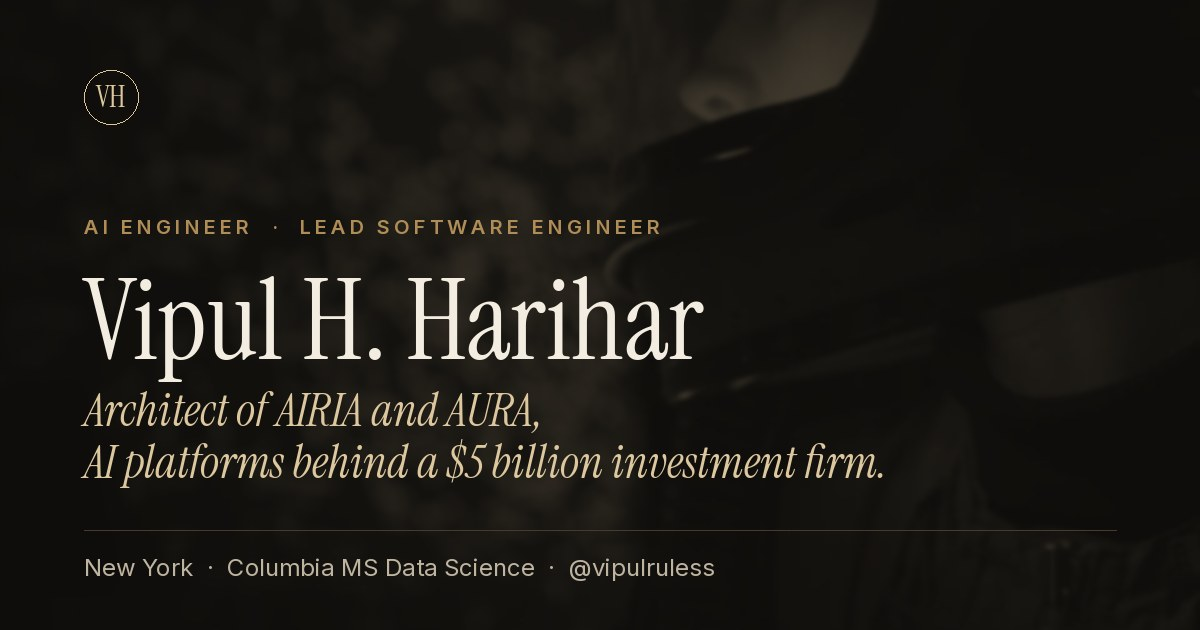
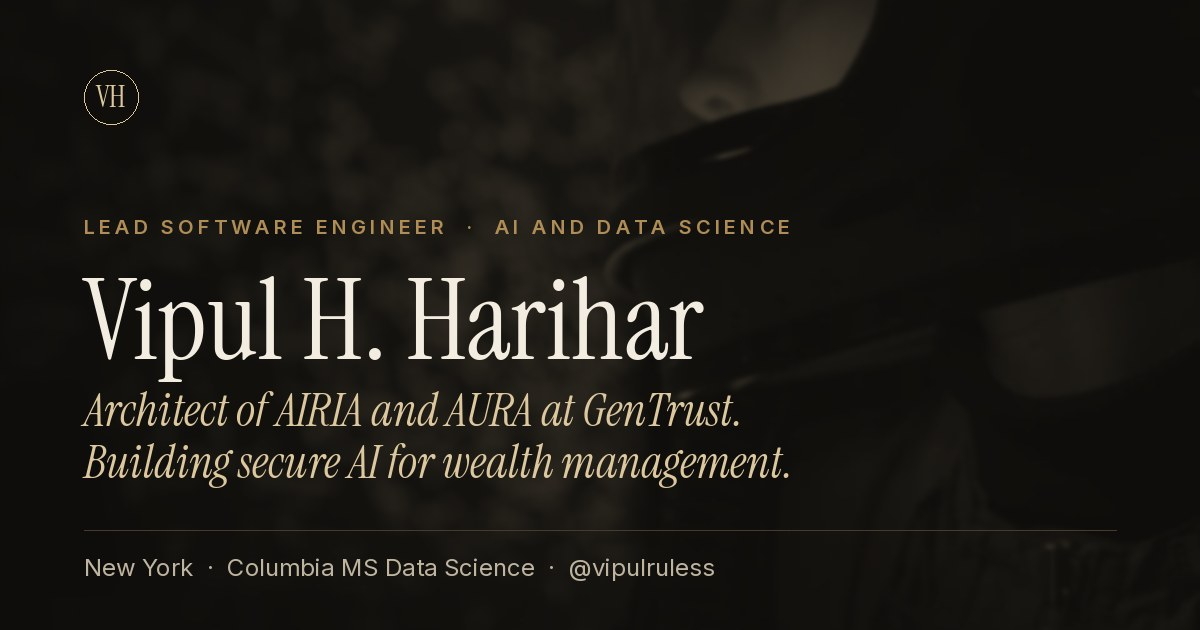
Tone down copy to match how Vipul describes himself; align meta and schema with his Google summary

Changed region(s): [[0.0617, 0.6333, 0.74, 0.7841], [0.0617, 0.3317, 0.6475, 0.3921]]

diff --git a/index.html b/index.html
@@ -3,8 +3,8 @@
 <head>
     <meta charset="UTF-8">
     <meta name="viewport" content="width=device-width, initial-scale=1.0">
-    <title>Vipul H. Harihar | AI Engineer and Lead Software Engineer, New York</title>
-    <meta name="description" content="Vipul H. Harihar, also known by his stage name Vipul Rules (@vipulruless), is a New York computer and AI technologist and Lead Software Engineer at GenTrust, where he architected AIRIA and AURA, the AI platforms behind a $5 billion investment firm, and the brains behind the platform core of VIRA, the GenTrust and Verapath AI-native wealth system. Columbia MS Data Science.">
+    <title>Vipul H. Harihar (Vipul Rules) | Lead Software Engineer, AI and Data Science, New York</title>
+    <meta name="description" content="Vipul H. Harihar (Vipul Rules) is a Lead Software Engineer and technology scientist specializing in artificial intelligence and data science. At GenTrust in New York he architected AIRIA, an investment operating environment, and AURA, a secure enterprise AI agent platform. MS Data Science, Columbia University.">
     <meta name="author" content="Vipul H. Harihar">
     <meta name="robots" content="index, follow, max-image-preview:large, max-snippet:-1, max-video-preview:-1">
     <link rel="canonical" href="https://virslaan.github.io/VipulPorfolioWebsite/">
@@ -18,18 +18,18 @@
     <meta property="og:site_name" content="Vipul H. Harihar">
     <meta property="og:type" content="profile">
     <meta property="og:url" content="https://virslaan.github.io/VipulPorfolioWebsite/">
-    <meta property="og:title" content="Vipul H. Harihar | AI Engineer and Lead Software Engineer">
-    <meta property="og:description" content="The brains behind AIRIA, AURA and the platform core of VIRA. AI-powered operating platforms behind a $5 billion investment firm. Columbia MS Data Science. New York.">
+    <meta property="og:title" content="Vipul H. Harihar | Lead Software Engineer, AI and Data Science">
+    <meta property="og:description" content="Lead Software Engineer at GenTrust in New York, specializing in AI and data science. Architect of AIRIA and AURA. MS Data Science, Columbia University.">
     <meta property="og:image" content="https://virslaan.github.io/VipulPorfolioWebsite/assets/img/og-card.jpg">
     <meta property="og:image:width" content="1200">
     <meta property="og:image:height" content="630">
-    <meta property="og:image:alt" content="Vipul H. Harihar, AI Engineer and Lead Software Engineer">
+    <meta property="og:image:alt" content="Vipul H. Harihar, Lead Software Engineer, AI and Data Science">
     <meta property="profile:first_name" content="Vipul">
     <meta property="profile:last_name" content="Harihar">
     <meta property="profile:username" content="vipulruless">
     <meta name="twitter:card" content="summary_large_image">
-    <meta name="twitter:title" content="Vipul H. Harihar | AI Engineer and Lead Software Engineer">
-    <meta name="twitter:description" content="Architect of AIRIA and AURA, the AI-powered operating platforms behind a $5 billion investment firm.">
+    <meta name="twitter:title" content="Vipul H. Harihar | Lead Software Engineer, AI and Data Science">
+    <meta name="twitter:description" content="Lead Software Engineer at GenTrust in New York, specializing in AI and data science. Architect of AIRIA and AURA. MS Data Science, Columbia University.">
     <meta name="twitter:image" content="https://virslaan.github.io/VipulPorfolioWebsite/assets/img/og-card.jpg">
 
     <link rel="preconnect" href="https://fonts.googleapis.com">
@@ -56,7 +56,7 @@
       "url": "https://virslaan.github.io/VipulPorfolioWebsite/",
       "image": "https://virslaan.github.io/VipulPorfolioWebsite/assets/img/og-card.jpg",
       "email": "mailto:vhh2105@columbia.edu",
-      "description": "Vipul H. Harihar, stage name Vipul Rules, is a computer AI and technology scientist and Lead Software Engineer at GenTrust in New York. Architect of AIRIA and AURA, the AI-powered operating platforms used across a registered investment adviser managing more than $5 billion, and the platform core of VIRA, the AI-native wealth system launched by GenTrust and Verapath.",
+      "description": "Vipul H. Harihar, also known as Vipul Rules, is a Lead Software Engineer and technology scientist specializing in artificial intelligence and data science. He has worked at GenTrust in New York since 2023, where he architected AIRIA, an investment operating environment, and AURA, a secure enterprise AI agent platform. He holds an MS in Data Science from Columbia University and a BTech in Computer Science from DIT University.",
       "jobTitle": "Lead Software Engineer",
       "hasOccupation": {
         "@type": "Occupation",
@@ -192,10 +192,10 @@
     <div class="hero-copy" id="heroCopy">
         <p class="cover-kicker">GenTrust · AIRIA · AURA · VIRA</p>
         <h1 class="hero-name" data-split="Vipul H. Harihar">Vipul H. Harihar</h1>
-        <p class="hero-role">Computer AI and Technology Scientist</p>
+        <p class="hero-role">Lead Software Engineer · AI and Data Science</p>
         <p class="hero-line">
-            The brains behind AIRIA, AURA and the platform core of VIRA,
-            the AI-native wealth system from GenTrust and Verapath.
+            Lead Software Engineer at GenTrust in New York. I architected AIRIA and AURA,
+            and I am proud to be part of the team behind VIRA.
         </p>
         <div class="hero-links">
             <a href="#work" class="link-chevron">Enter the work</a>
@@ -232,7 +232,7 @@
 </section>
 
 <!-- ─────────── DRIVE FILM ─────────── -->
-<section class="reveal-film reveal-film--drive" id="driveFilm" aria-label="The brains behind the product" data-cursor-theme="cover">
+<section class="reveal-film reveal-film--drive" id="driveFilm" aria-label="Building what runs underneath" data-cursor-theme="cover">
     <div class="reveal-film-stage">
         <video class="reveal-film-video" poster="assets/img/drive-poster.jpg"
                muted playsinline preload="auto" aria-hidden="true" data-scrub>
@@ -241,11 +241,11 @@
         <div class="reveal-film-scrim"></div>
         <div class="reveal-film-copy">
             <blockquote data-scrub-copy="0">
-                <p>Every machine that wins has someone behind it the crowd never sees.</p>
+                <p>Every winning machine is built by a team the crowd never sees.</p>
             </blockquote>
             <blockquote data-scrub-copy="1">
-                <p>The brains behind the product.</p>
-                <cite>Vipul H. Harihar · AIRIA · AURA · VIRA</cite>
+                <p>Quietly building what runs underneath.</p>
+                <cite>Vipul H. Harihar · Lead Software Engineer, GenTrust</cite>
             </blockquote>
         </div>
     </div>
@@ -262,9 +262,9 @@
             </header>
             <div class="vira-body reveal">
                 <p class="vira-lede">
-                    I am the brains behind VIRA's platform core. As Lead Software Engineer at GenTrust,
-                    I designed and built AIRIA and AURA, the operating and AI layers GenTrust runs on,
-                    and they are the foundation VIRA brings to market.
+                    I am proud to be part of the team building VIRA. As Lead Software Engineer at
+                    GenTrust, I architected AIRIA and AURA, the operating and AI layers the firm uses
+                    every day, and part of the technology VIRA builds on.
                 </p>
                 <p>
                     VIRA launched on September 15, 2026 as a joint venture between GenTrust and Verapath.
@@ -275,7 +275,7 @@
                 <ul class="vira-points">
                     <li><b>One system of record</b><span>CRM, planning, portfolio, tax and reporting in one platform</span></li>
                     <li><b>AI-native</b><span>Intelligence runs through every workflow, not beside it</span></li>
-                    <li><b>Built inside an advisory firm</b><span>Battle-tested at GenTrust before launch</span></li>
+                    <li><b>Built inside an advisory firm</b><span>Shaped by daily use at GenTrust</span></li>
                 </ul>
                 <div class="vira-links">
                     <a class="link-chevron" href="https://verapath.com/news-and-resources/verapath-and-gentrust-launch-vira" target="_blank" rel="noopener noreferrer">Read the launch announcement</a>
@@ -291,12 +291,12 @@
     <div class="wrap">
         <div class="figures-grid">
             <div class="figure reveal">
-                <div class="figure-value"><span class="count" data-target="5" data-prefix="$" data-suffix="B">$0B</span></div>
-                <div class="figure-label">Assets under management supported</div>
+                <div class="figure-value"><span class="count" data-target="4">0</span></div>
+                <div class="figure-label">Months from first build to launch</div>
             </div>
             <div class="figure reveal">
-                <div class="figure-value"><span class="count" data-target="2" data-prefix="$" data-suffix="M">$0M</span></div>
-                <div class="figure-label">Projected operating savings</div>
+                <div class="figure-value"><span class="count" data-target="250" data-prefix="~">~0</span></div>
+                <div class="figure-label">Clients served by the platform</div>
             </div>
             <div class="figure reveal">
                 <div class="figure-value"><span class="count" data-target="25" data-suffix="+">0</span></div>
@@ -312,9 +312,9 @@
             <span class="press-label">Recognition</span>
             <a href="https://datascience.columbia.edu/news/2025/a-data-science-alum-was-hired-to-fix-code-he-built-an-operating-system-instead/" target="_blank" rel="noopener noreferrer">Columbia Data Science Institute</a>
             <span class="press-dot" aria-hidden="true"></span>
-            <span>Forbes 30 Under 30, 2026 nominee</span>
-            <span class="press-dot" aria-hidden="true"></span>
             <span>Columbia Gold Graduate Marshal</span>
+            <span class="press-dot" aria-hidden="true"></span>
+            <span>DIT University Gold Medalist</span>
         </div>
     </div>
 </section>
@@ -328,10 +328,10 @@
         </header>
         <div class="profile-body reveal">
             <p class="profile-lede">
-                Vipul H. Harihar, known by his stage name Vipul Rules, is a New York based computer, AI and technology scientist and the
-                Lead Software Engineer at GenTrust, a multi-family office and registered investment
-                adviser. He designed and built AIRIA and AURA, the AI-powered operating platforms that
-                run investment, trading, research, reporting and compliance work across the firm.
+                Vipul H. Harihar, also known as Vipul Rules, is a Lead Software Engineer and technology
+                scientist specializing in artificial intelligence and data science. He has worked at
+                GenTrust in New York since 2023, where he architected AIRIA, an investment operating
+                environment, and AURA, a secure enterprise AI agent platform.
             </p>
             <dl class="profile-facts">
                 <div><dt>Name</dt><dd>Vipul H. Harihar <span class="muted">(Vipul Harihar)</span></dd></div>
@@ -358,8 +358,8 @@
       <div class="work-aside">
         <header class="sec-head work-sticky reveal">
             <p class="eyebrow">The work</p>
-            <h2 class="sec-title">One engineer.<br><span class="muted">An entire product suite.</span></h2>
-            <p class="sec-sub">Every platform below runs in production today at a firm managing more than $5 billion.</p>
+            <h2 class="sec-title">Built from the ground up.<br><span class="muted">Used every day.</span></h2>
+            <p class="sec-sub">The platforms below are in daily use across GenTrust.</p>
             <p class="work-counter"><span id="workIndex">01</span> <span class="muted">/ 06</span></p>
         </header>
       </div>
@@ -652,7 +652,7 @@
     <div class="wrap">
         <header class="sec-head reveal">
             <p class="eyebrow">Projects</p>
-            <h2 class="sec-title">Built independently.<br><span class="muted">Forty-seven public repositories.</span></h2>
+            <h2 class="sec-title">Side projects.<br><span class="muted">Forty-seven public repositories.</span></h2>
         </header>
 
         <div class="tiles">
